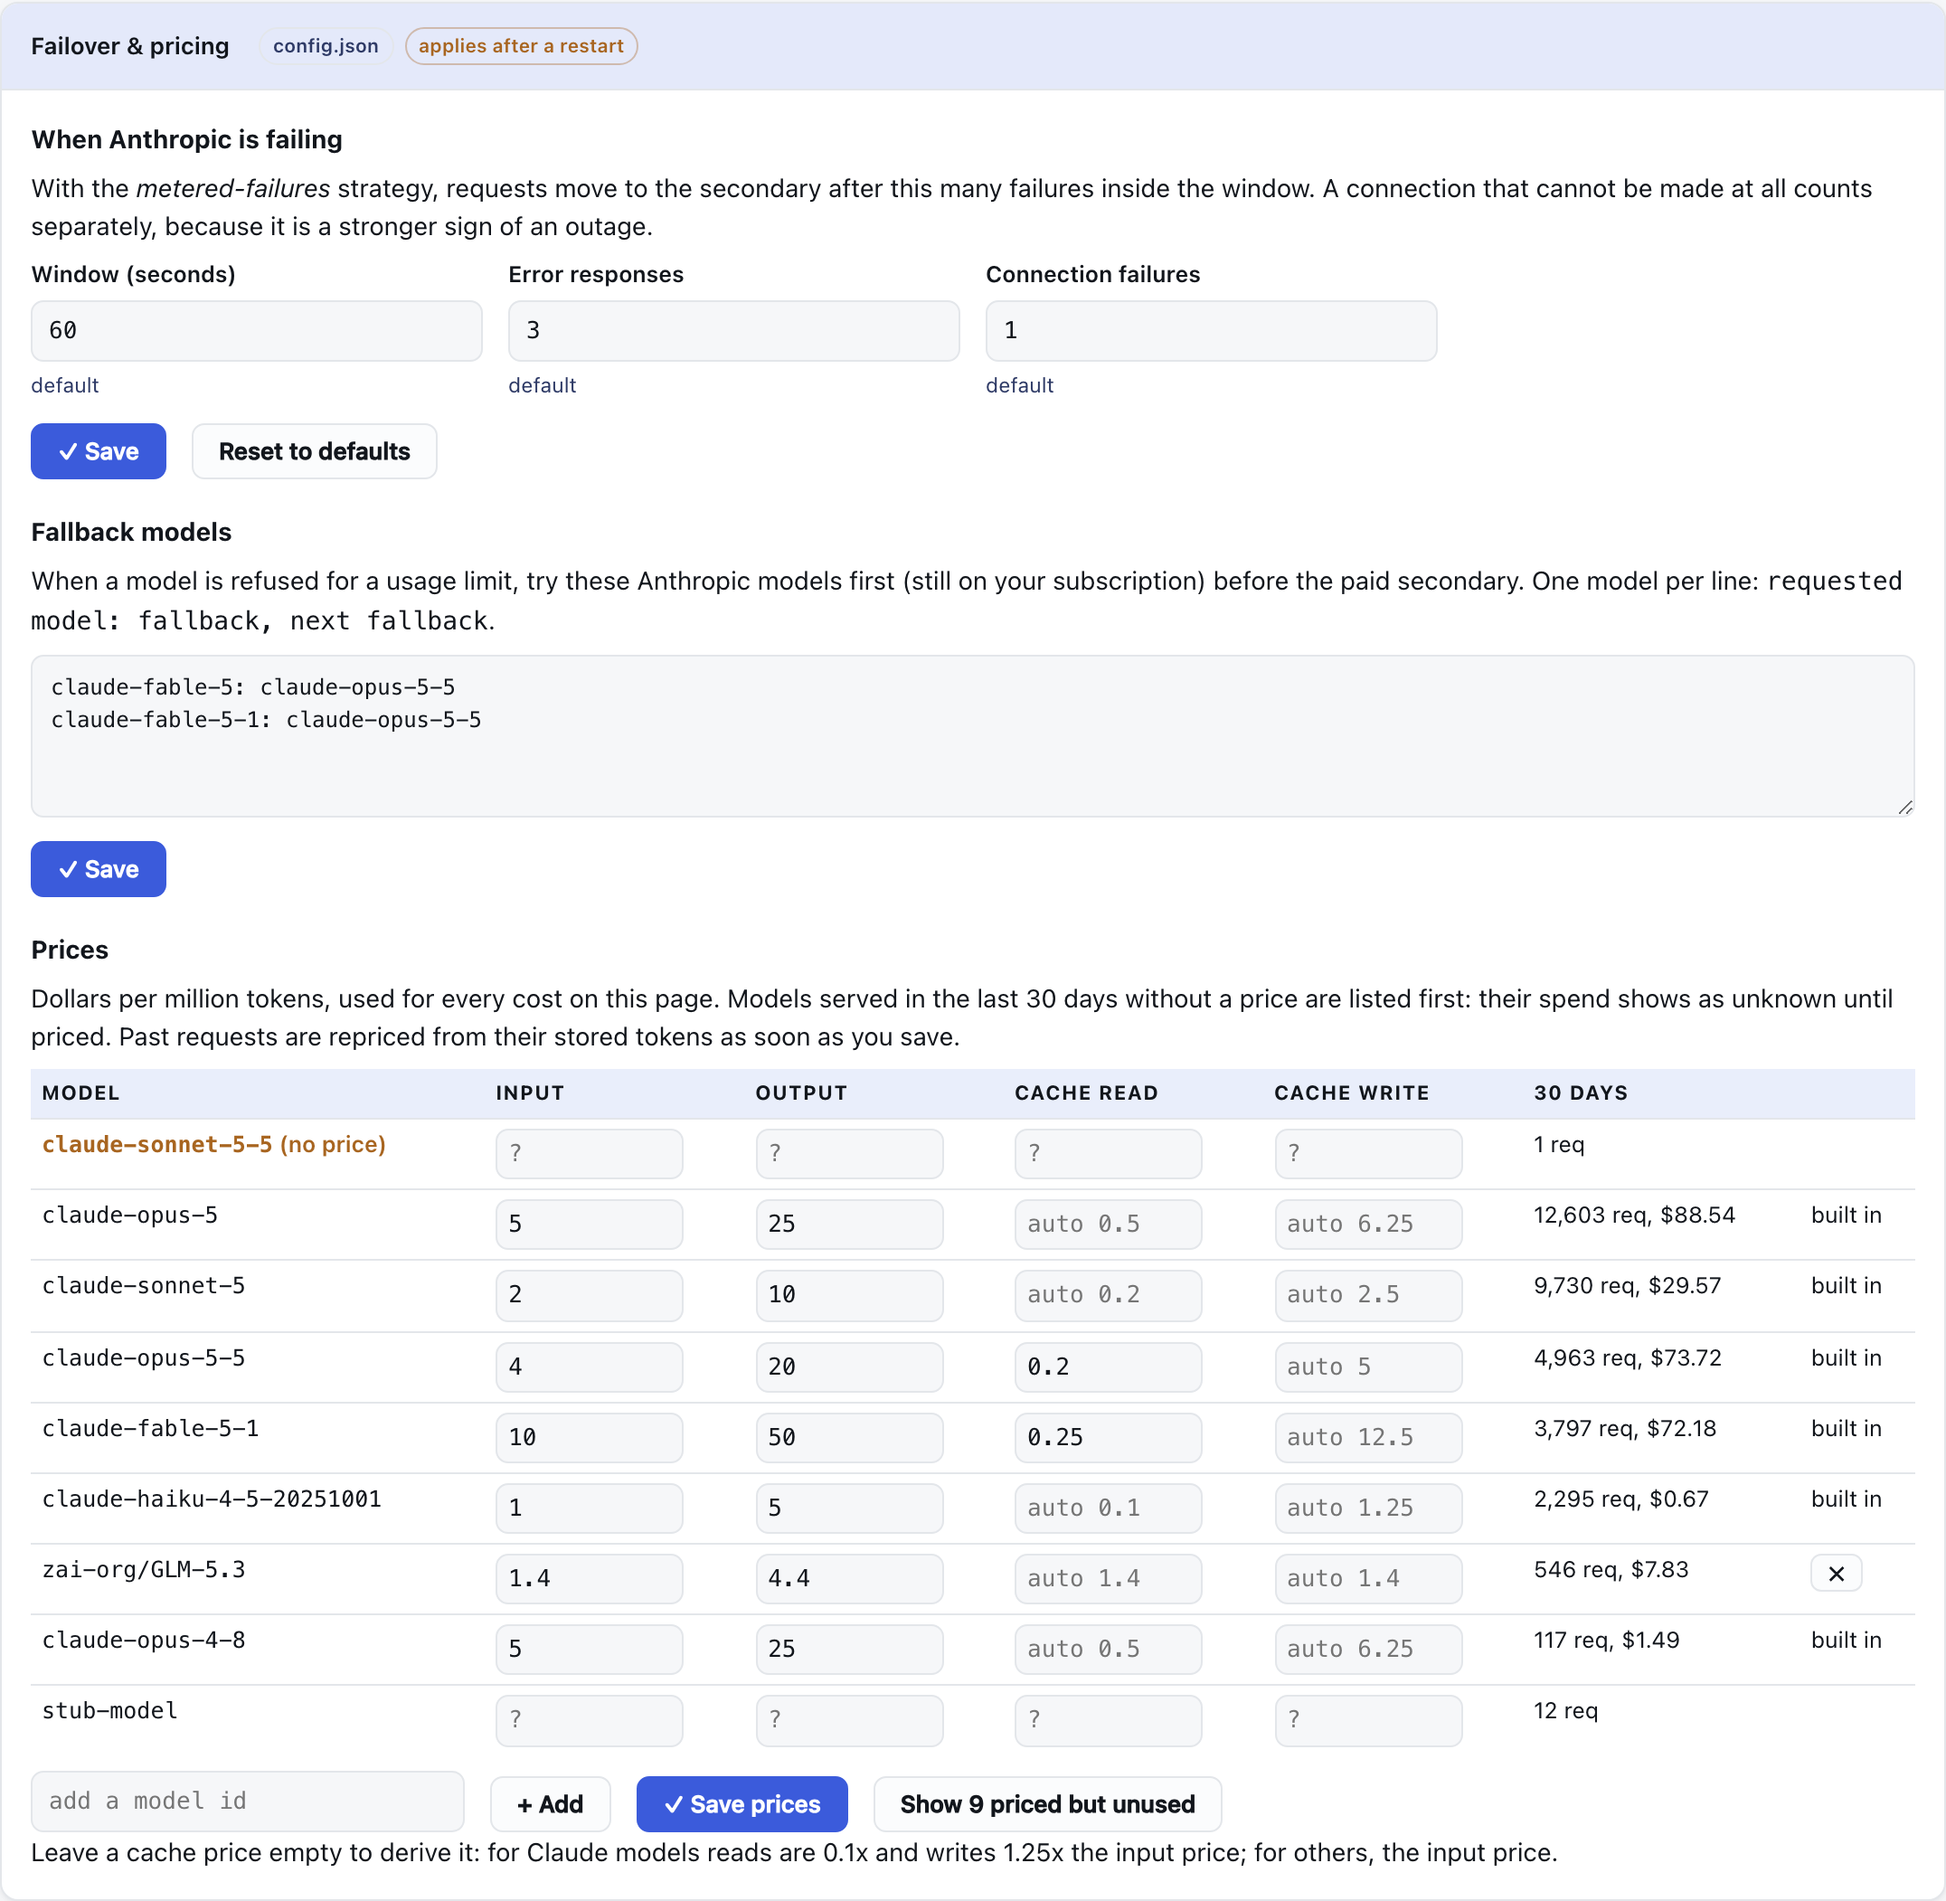
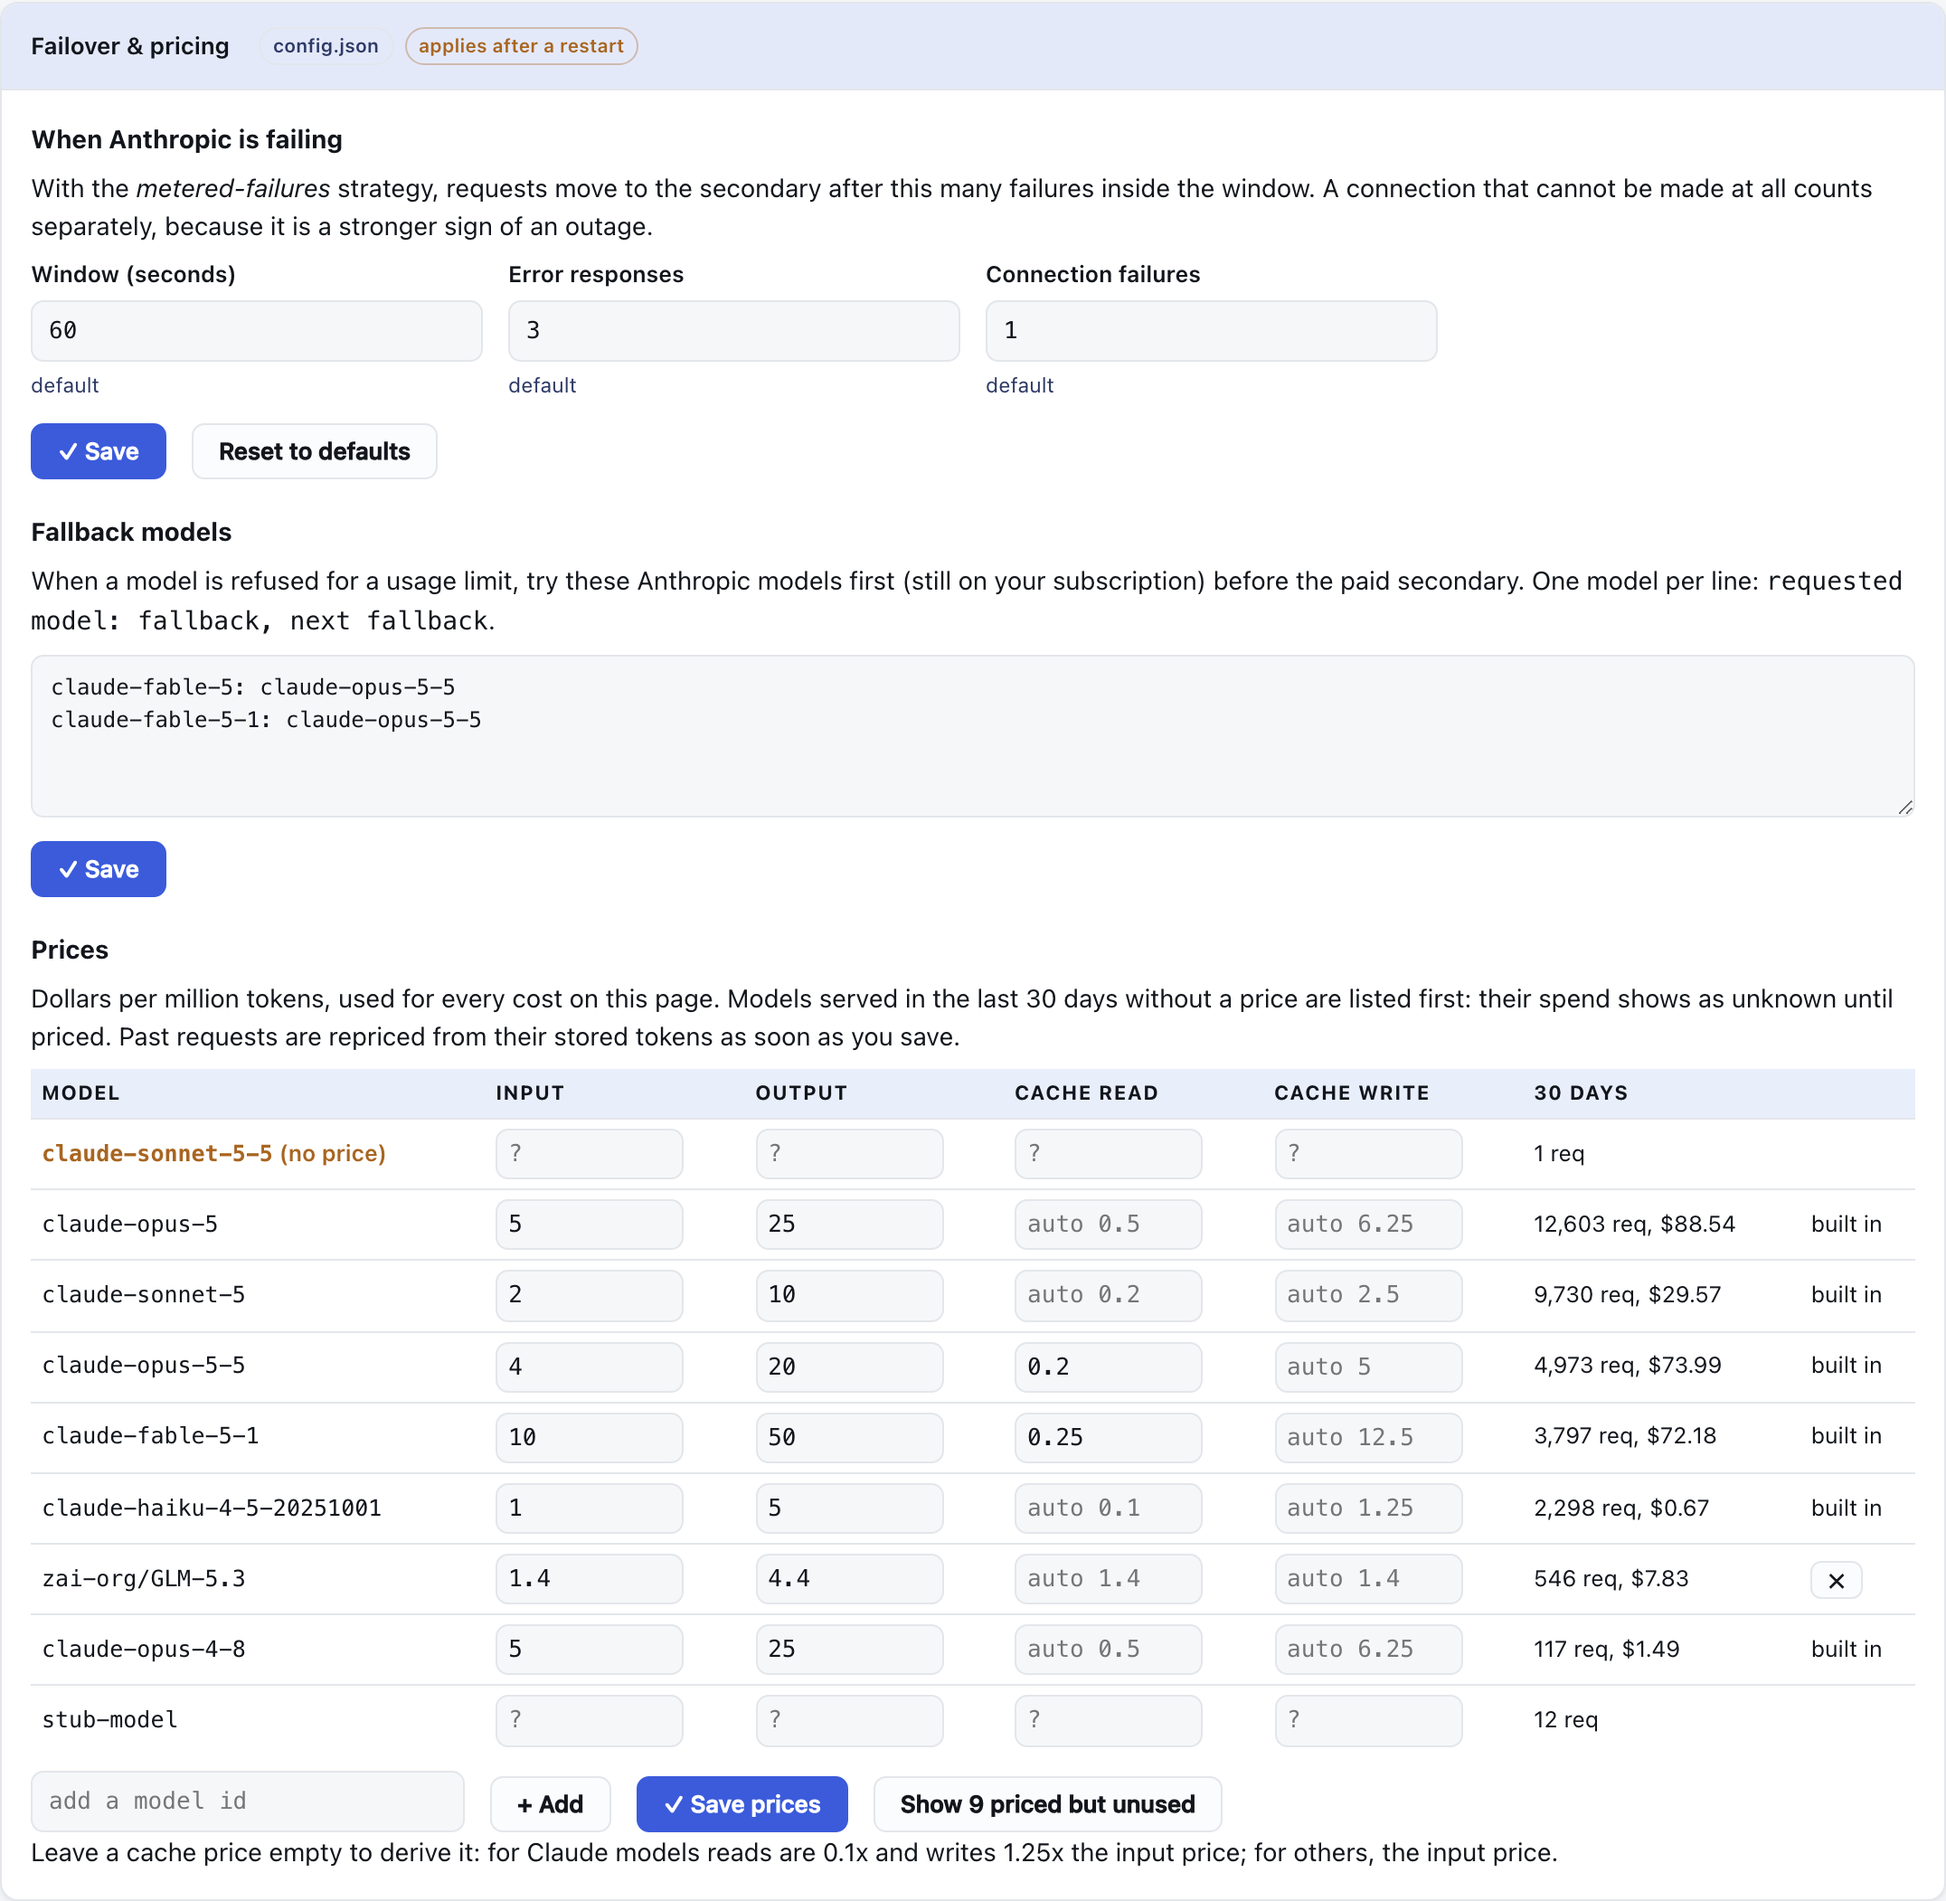
Price table: centre each row's cells vertically
Table cells default to vertical-align: top on this page, so the model name,
request count and built-in label sat above the middle of the input boxes
beside them. The README screenshot is re-taken.

diff --git a/internal/admin/admin.html b/internal/admin/admin.html
@@ -496,7 +496,8 @@
 .set-grid input.changed { border-color: var(--accent); }
 .set-grid .dflt { font-weight: 400; color: var(--muted); font-size: 11.5px; }
 .price-table { border-collapse: collapse; font-size: 12.5px; min-width: 640px; width: 100%; }
-.price-table th, .price-table td { padding: 5px 6px; text-align: left; border-bottom: 1px solid var(--border); }
+.price-table th, .price-table td { padding: 5px 6px; text-align: left; border-bottom: 1px solid var(--border); vertical-align: middle; }
+.price-table input { margin: 0; display: block; }
 .price-table input { min-width: 0; width: 104px; padding: 4px 6px; }
 .price-table tr.unpriced td:first-child { color: var(--warn); font-weight: 600; }
 #attention { margin: 0 0 14px; border: 1px solid color-mix(in srgb, var(--warn) 40%, transparent); background: var(--warn-bg); border-radius: 12px; padding: 12px 14px; }
